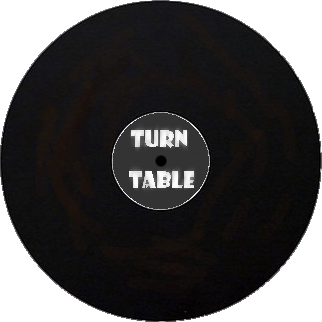
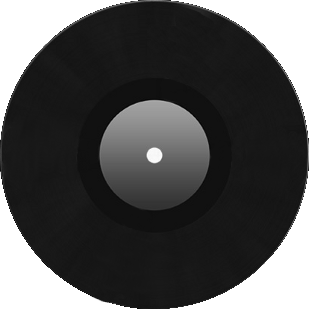
Integrated first graphics from visual consultant. Added details to help screen.

diff --git a/src/qml/HelpScreen/HelpScreen.qml b/src/qml/HelpScreen/HelpScreen.qml
@@ -1,17 +1,100 @@
 import Qt 4.7
 
 Rectangle {
-    width: 500; height: 360
+    id: helpScreen
 
+    signal linkActivated(variant link)
+
+    width: 500; height: 360
     radius: 15
     color: "gray"
+    clip: true
 
-    Text {
-        id: freesoundlicense
+    Flickable {
+        id: flickable
 
-        color: "white"
-        anchors.fill: parent; anchors.margins: 20
-        wrapMode: Text.WordWrap
-        text: "Samples\nThe main turntable sample was created by nick Flick3r and it was downloaded from freesound.org, the sample follows the Creative Commons Sampling Plus 1.0 license, see http://creativecommons.org/licenses/sampling+/1.0/ for more information."
+        anchors.fill: parent
+        anchors.margins: 20
+        contentHeight: column.height
+
+        Column {
+            id: column
+
+            x: 10
+            width: parent.width - 20
+
+            Text {
+                id: projectInfo
+
+                color: "white"
+                width: parent.width
+                wrapMode: Text.WordWrap
+                textFormat: Text.RichText
+
+                text: "<b>Dj Turntable</b><br>" +
+                      "Dj Turntable is demonstration of integrating Qt Quick application to Qt audio interface. " +
+                      "See more information about the project at " +
+                      "<a href=\"https://projects.forum.nokia.com/turntable\">https://projects.forum.nokia.com/turntable</a>.<br>"
+            }
+
+            Text {
+                id: features
+
+                color: "white"
+                width: parent.width
+                wrapMode: Text.WordWrap
+                textFormat: Text.RichText
+
+                text: "<b>Turntable</b><br>" +
+                      "Play the looping sample with a realistic turntable. " +
+                      "The sample can be scratched by the finger, played faster / slower and backwards. " +
+                      "The speed of the disk can be adjusted with the speed slider, the default speed 1x can be " +
+                      "obtained by double clicking the speed slider knob. Dj Turntable offers Cutoff and Resonance " +
+                      "to alternate the sample in real time. The knobs are rotated by moving the finger up and down " +
+                      "on top of the knobs.<br><br>" +
+                      "<b>Drum machine</b><br>" +
+                      "Play and edit the drum beats. There are four predefined beats to play and edit but which " +
+                      "are not saved. For the user there are four beats that are saved to the devices memory " +
+                      "whenever they are edited. Use the beat selector on the bottom right corner of the view to " +
+                      "iterate through the beats. All the beats are 32 ticks long and they accommondate 6 different " +
+                      "drum samples: hi-hat, hi-hat open, bass drum, snare, cymbal and cow bell.<br>"
+            }
+
+            Text {
+                id: keyboardHelp
+
+                color: "white"
+                width: parent.width
+                wrapMode: Text.WordWrap
+                textFormat: Text.RichText
+
+                text: "<b>Keyboard shortcuts</b><br>" +
+                      "There are few keyboard shortcuts implemented into the application:<br>" +
+                      "Camera zoom up = Volume up<br>" +
+                      "Camera zoom down = Volume down<br>" +
+                      "Space = Start / stop turntable<br>" +
+                      "Key up = Go to turntable view<br>" +
+                      "Key down = Go to drum machine view<br>" +
+                      "Key left = View the 1st tick group in drum machine<br>" +
+                      "Key right = View the 2nd tick group in drum machine<br>" +
+                      "Key i = Go to info view<br>"
+            }
+
+            Text {
+                id: freesoundlicense
+
+                color: "white"
+                width: parent.width
+                wrapMode: Text.WordWrap
+                textFormat: Text.RichText
+
+                text: "<b>Samples</b><br>" +
+                      "The turntable melody sample <i>ivory.wav</i> was created by nick <i>Flick3r</i> " +
+                      "and was downloaded from <a href=\"http://www.freesound.org\">freesound.org</a>. The sample follows the " +
+                      "<a href=\"http://creativecommons.org/licenses/sampling+/1.0/\">Creative Commons Sampling Plus 1.0 license</a>.<br>"
+
+                onLinkActivated: helpScreen.linkActivated(link)
+            }
+        }
     }
 }

diff --git a/src/qml/TurnTable.qml b/src/qml/TurnTable.qml
@@ -15,6 +15,8 @@ Rectangle {
     signal volumeUp()
     signal volumeDown()
 
+    signal linkActivated(variant link)
+
     function audioPosition(pos) { arm.positionOnDisk = pos }
     function inclination(deg) { diskReflection.rotation = -deg * 2 + 45 }
 
@@ -26,8 +28,11 @@ Rectangle {
     Keys.onDownPressed: flickable.state = "DrumMachine"
     Keys.onUpPressed: flickable.state = "TurnTable"
     Keys.onSpacePressed: powerbutton.press()
+    Keys.onLeftPressed: drumMachine.selectedTickGroup = 1
+    Keys.onRightPressed: drumMachine.selectedTickGroup = 2
     Keys.onVolumeUpPressed: ui.volumeUp()
     Keys.onVolumeDownPressed: ui.volumeDown()
+    Keys.onPressed: { if(event.key == 56 || event.key == Qt.Key_I) flickable.state = "Help" }
 
     Component.onCompleted: {
         flickable.state = "TurnTable"
@@ -51,6 +56,8 @@ Rectangle {
 
             width: flickable.width; height: flickable.height
             y: -flickable.height
+
+            onLinkActivated: ui.linkActivated(link)
         }
 
         Image {
@@ -70,11 +77,11 @@ Rectangle {
                 property real targetSpeed: turntable.playing ? speedslider.value : 0.0
                 property real currentSpeed: 0
 
-                width: parent.paintedWidth * 0.80; height: width
+                width: parent.paintedWidth * 0.73; height: width
                 source: "disk.png"
 
                 anchors.centerIn: parent
-                anchors.horizontalCenterOffset: -0.095 * parent.paintedWidth
+                anchors.horizontalCenterOffset: -0.060 * parent.paintedWidth
                 anchors.verticalCenterOffset: -0.0055 * parent.paintedHeight
 
                 onCurrentSpeedChanged: playTimer.running ? ui.diskSpeed(disk.currentSpeed) : ui.diskAimSpeed(disk.currentSpeed)
@@ -162,17 +169,6 @@ Rectangle {
                 }
             }
 
-            Arm {
-                id: arm
-
-                width: parent.paintedWidth * 0.1518; height: parent.paintedHeight * 0.8927
-                anchors.centerIn: parent
-                anchors.horizontalCenterOffset: 0.275 * parent.paintedWidth
-                anchors.verticalCenterOffset: -0.03 * parent.paintedHeight
-
-                onArmdownChanged: armdown ? ui.start() : ui.stop()
-            }
-
             SpeedSlider {
                 id: speedslider
 
@@ -183,37 +179,54 @@ Rectangle {
                 maximum: 1.5; minimum: 0.0; value: 1.0; defaultValue: 1.0
                 mouseAreaScale: 2
             }
+
+            Arm {
+                id: arm
+
+                width: parent.paintedWidth * 0.1518; height: parent.paintedHeight * 0.8927
+                anchors.centerIn: parent
+                anchors.horizontalCenterOffset: 0.34 * parent.paintedWidth
+                anchors.verticalCenterOffset: -0.03 * parent.paintedHeight
+
+                onArmdownChanged: armdown ? ui.start() : ui.stop()
+            }
         }
 
         Rectangle {
             id: mixerpanel
 
-            x: flickable.width - mixerpanel.width - 10
-            y: 3
-            width: 130; height: flickable.height - 10
+            x: flickable.width - mixerpanel.width - 5
+            y: 1
+            width: 130; height: flickable.height - 2
             color: "#858585"
-            radius: 12
+            radius: 4
 
             Button {
                 id: closeButton
 
                 width: 40; height: 40
                 anchors.top: parent.top; anchors.topMargin: 10
-                anchors.right: parent.right; anchors.rightMargin: 20
+                anchors.right: parent.right; anchors.rightMargin: 18
                 source: "closemark.png"
                 smooth: true
                 onClicked: Qt.quit()
             }
 
-            Button {
+            Image {
                 id: infoButton
 
                 width: 40; height: 40
                 anchors.top:  closeButton.top
-                anchors.right: closeButton.left; anchors.rightMargin: 10
+                anchors.right: closeButton.left; anchors.rightMargin: 14
                 source: "infobutton.png"
                 smooth: true
-                onClicked: flickable.state = "Help"
+
+                MouseArea {
+                    anchors.fill: parent
+                    onPressed: infoButton.scale = 0.95
+                    onReleased: infoButton.scale = 1.00
+                    onClicked: flickable.state = "Help"
+                }
             }
 
             Text {

diff --git a/src/qml/Arm.qml b/src/qml/Arm.qml
@@ -3,7 +3,7 @@ import Qt 4.7
 Image {
     id: arm
 
-    property real angle: armdown ? positionOnDisk * 30 + armOnDiskOffset : armOnDiskOffset
+    property real angle: armdown ? positionOnDisk * 22 + armOnDiskOffset : armOnDiskOffset
     property real armOnDiskOffset: 0
     property bool armdown: false
     property real positionOnDisk: 0   // Values from 0.0 - 1.0
@@ -15,7 +15,7 @@ Image {
     x: 100; y: 300
     source: "arm.png"
     smooth: true
-    transform: Rotation { origin.x: arm.width * 0.82; origin.y: arm.height * 0.2; angle: arm.angle }
+    transform: Rotation { origin.x: arm.width * 0.82; origin.y: arm.height * 0.1; angle: arm.angle }
 
     MouseArea {
         width: 50; height: 50
@@ -27,7 +27,7 @@ Image {
     SequentialAnimation {
         id: moveToDisk
 
-        PropertyAnimation { target: arm; property: "armOnDiskOffset"; to: 10; duration: 2000 }
+        PropertyAnimation { target: arm; property: "armOnDiskOffset"; to: 12; duration: 2000 }
         ScriptAction { script: { arm.armdown = true } }
     }
 

diff --git a/src/qml/DrumMachine/DrumMachine.qml b/src/qml/DrumMachine/DrumMachine.qml
@@ -20,7 +20,12 @@ Rectangle {
                 if(col != 16) {
                     // The column 16 is blank column, that column was made to leave
                     // a empty column to the breaking point of two tick groups
-                    button.tick = col
+                    if(col < 15) {
+                        button.tick = col
+                    }
+                    else {
+                        button.tick = col - 1
+                    }
                     button.sample = row
                     button.width = drumGrid.drumButtonWidth
                     button.height = drumGrid.drumButtonHeight
@@ -63,12 +68,11 @@ Rectangle {
     }
 
     property bool ledOn: false
+    property alias selectedTickGroup: tickGroupSelector.selectedTickGroup
 
     width: 600; height: 360
     color: "black"
-    Component.onCompleted: {
-        createDrumButtons()
-    }
+    Component.onCompleted: { createDrumButtons() }
 
     TickGroupSelector {
         id: tickGroupSelector

diff --git a/src/main.cpp b/src/main.cpp
@@ -112,6 +112,7 @@ int main(int argc, char *argv[])
     QObject::connect(turnTableQML, SIGNAL(resonance(QVariant)), turnTable, SLOT(setResonance(QVariant)));
     QObject::connect(turnTableQML, SIGNAL(volumeUp()), turnTable, SLOT(volumeUp()));
     QObject::connect(turnTableQML, SIGNAL(volumeDown()), turnTable, SLOT(volumeDown()));
+    QObject::connect(turnTableQML, SIGNAL(linkActivated(QVariant)), turnTable, SLOT(linkActivated(QVariant)));
     QObject::connect(turnTable, SIGNAL(audioPosition(QVariant)), turnTableQML, SLOT(audioPosition(QVariant)));
 
     //DrumMachine connections

diff --git a/src/TurnTable.cpp b/src/TurnTable.cpp
@@ -1,5 +1,7 @@
 #include <math.h>
 #include <QSettings>
+#include <QDesktopServices>
+#include <QUrl>
 #include "TurnTable.h"
 
 using namespace GE;
@@ -210,4 +212,10 @@ void TurnTable::profile(QSystemDeviceInfo::Profile profile)
     default:
         break;
     }
+}
+
+
+void TurnTable::linkActivated(QVariant link)
+{
+    QDesktopServices::openUrl(QUrl(link.toString(), QUrl::TolerantMode));
 }

diff --git a/src/TurnTable.h b/src/TurnTable.h
@@ -41,6 +41,8 @@ public slots:
 
     int pullAudio(AUDIO_SAMPLE_TYPE *target, int bufferLength);
 
+    void linkActivated(QVariant link);
+
 signals:
     void audioPosition(QVariant position);
 
